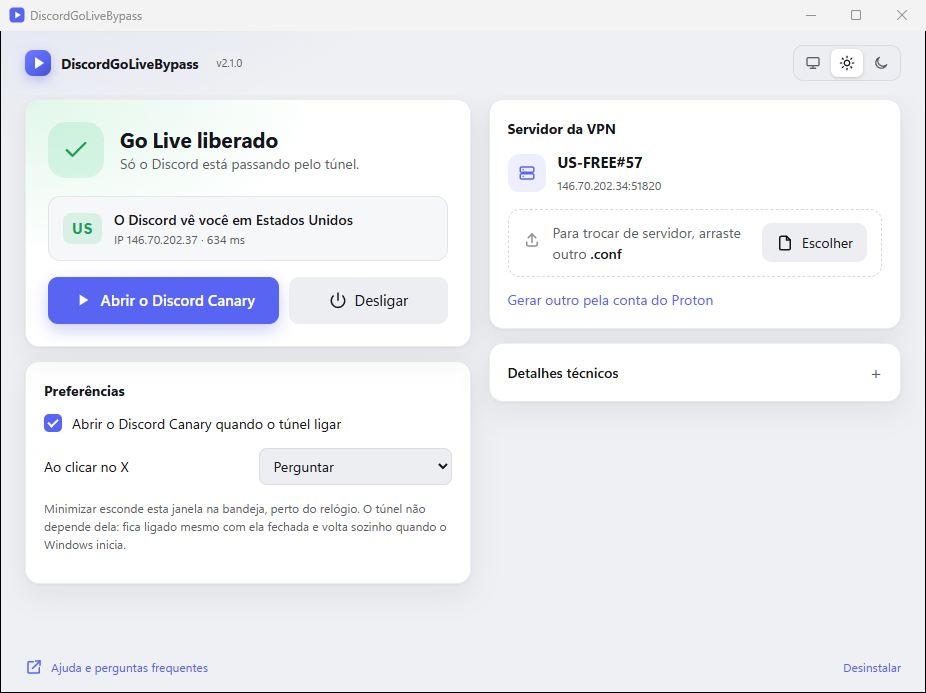
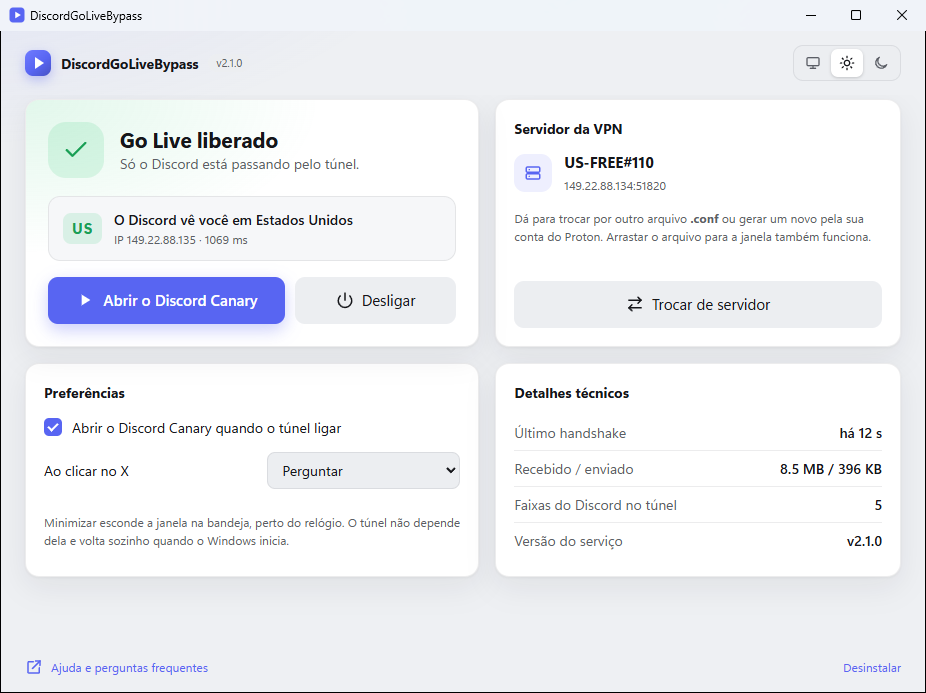
📚 docs: capturas do painel novo

diff --git a/README.md b/README.md
@@ -157,7 +157,7 @@ De vez em quando o Proton pede um CAPTCHA no login. Ele abre numa janelinha sepa
 <summary><strong>Quero trocar de servidor ou de VPN</strong></summary>
 <br>
 
-Clique em **Gerar outro pela conta do Proton** e escolha o país, ou baixe um arquivo novo e arraste para a janela. A janela pergunta se pode trocar, e o túnel passa a usar o novo servidor na hora.
+Clique em **Trocar de servidor**. Na tela que abre, você escolhe outro arquivo `.conf` ou entra com a conta do Proton e escolhe o país; arrastar um arquivo para a janela abre a mesma tela. Depois de confirmar a troca, o túnel passa a usar o novo servidor na hora.
 
 A configuração gerada pela conta tem validade: o programa pede um ano ao Proton, e a data que ele concedeu aparece na janela quando ela é criada. Depois disso, é só gerar outra.
 </details>
